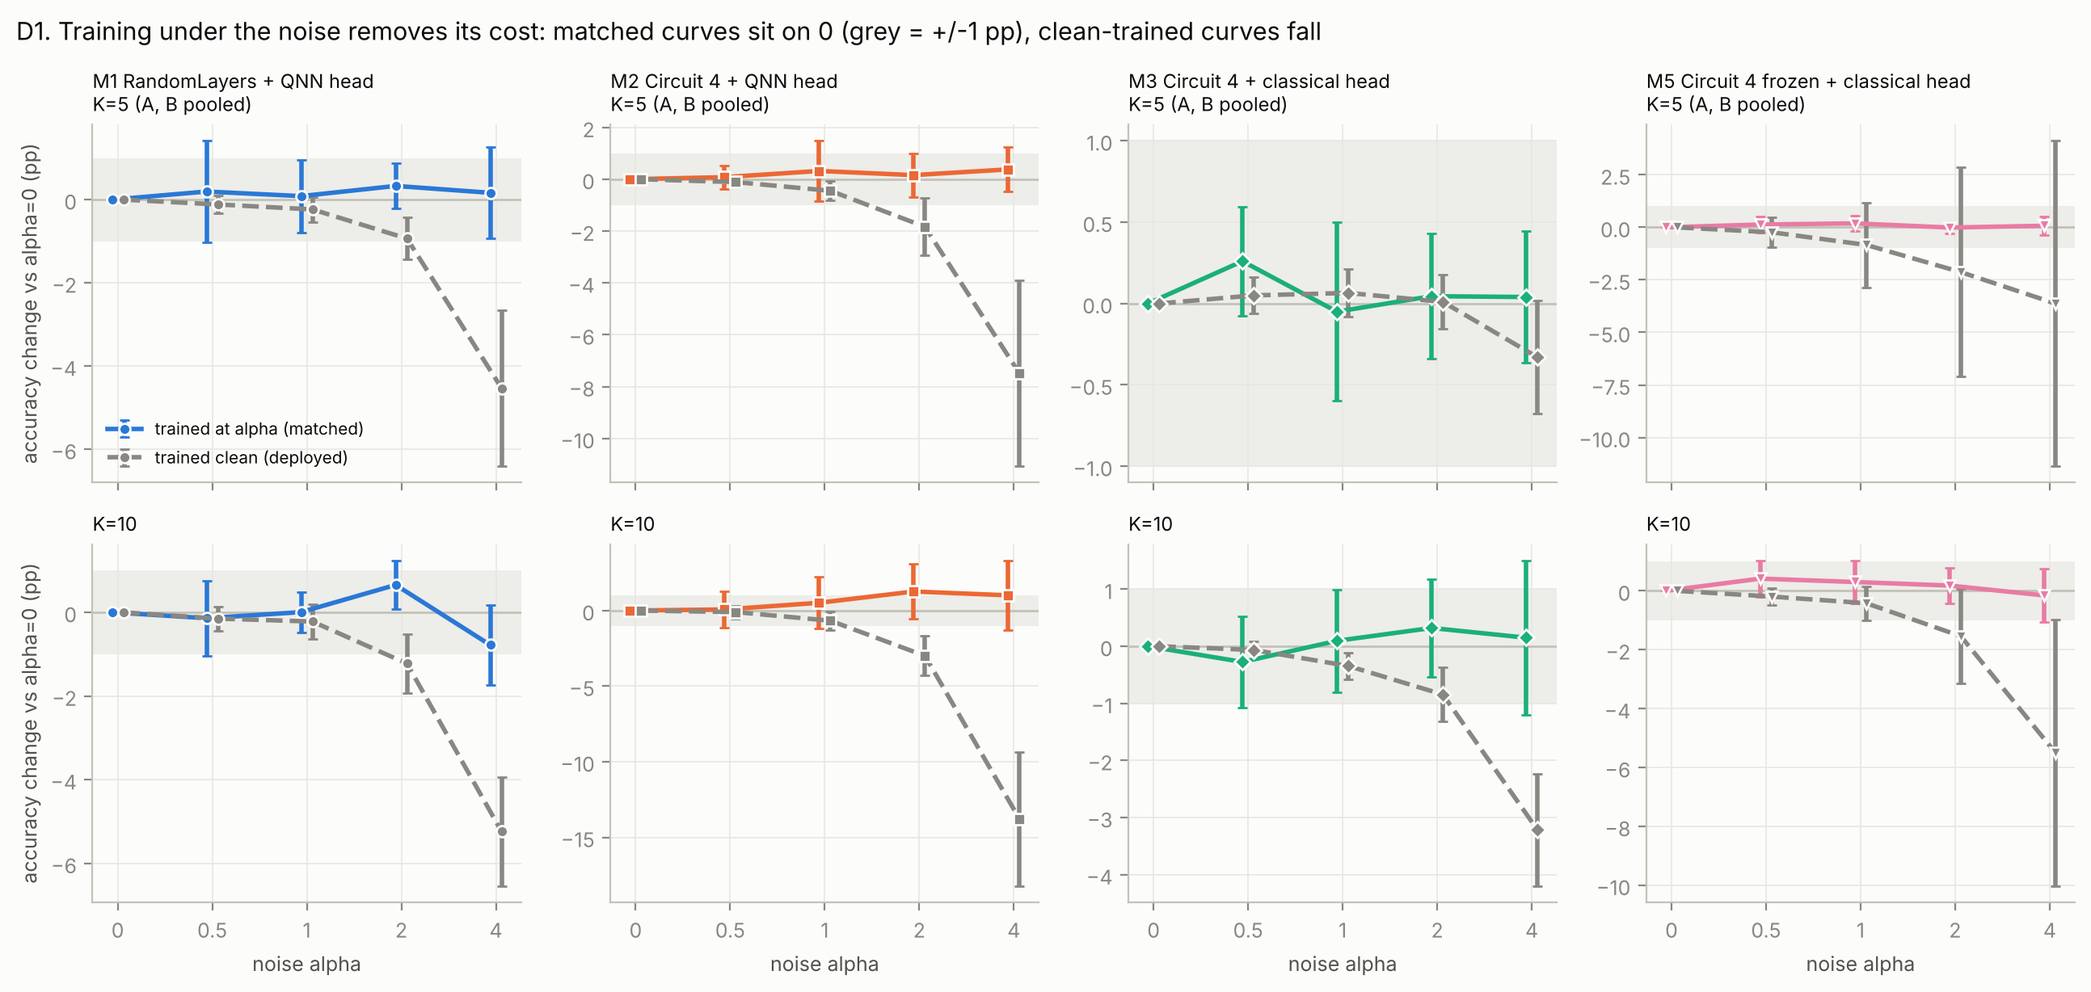
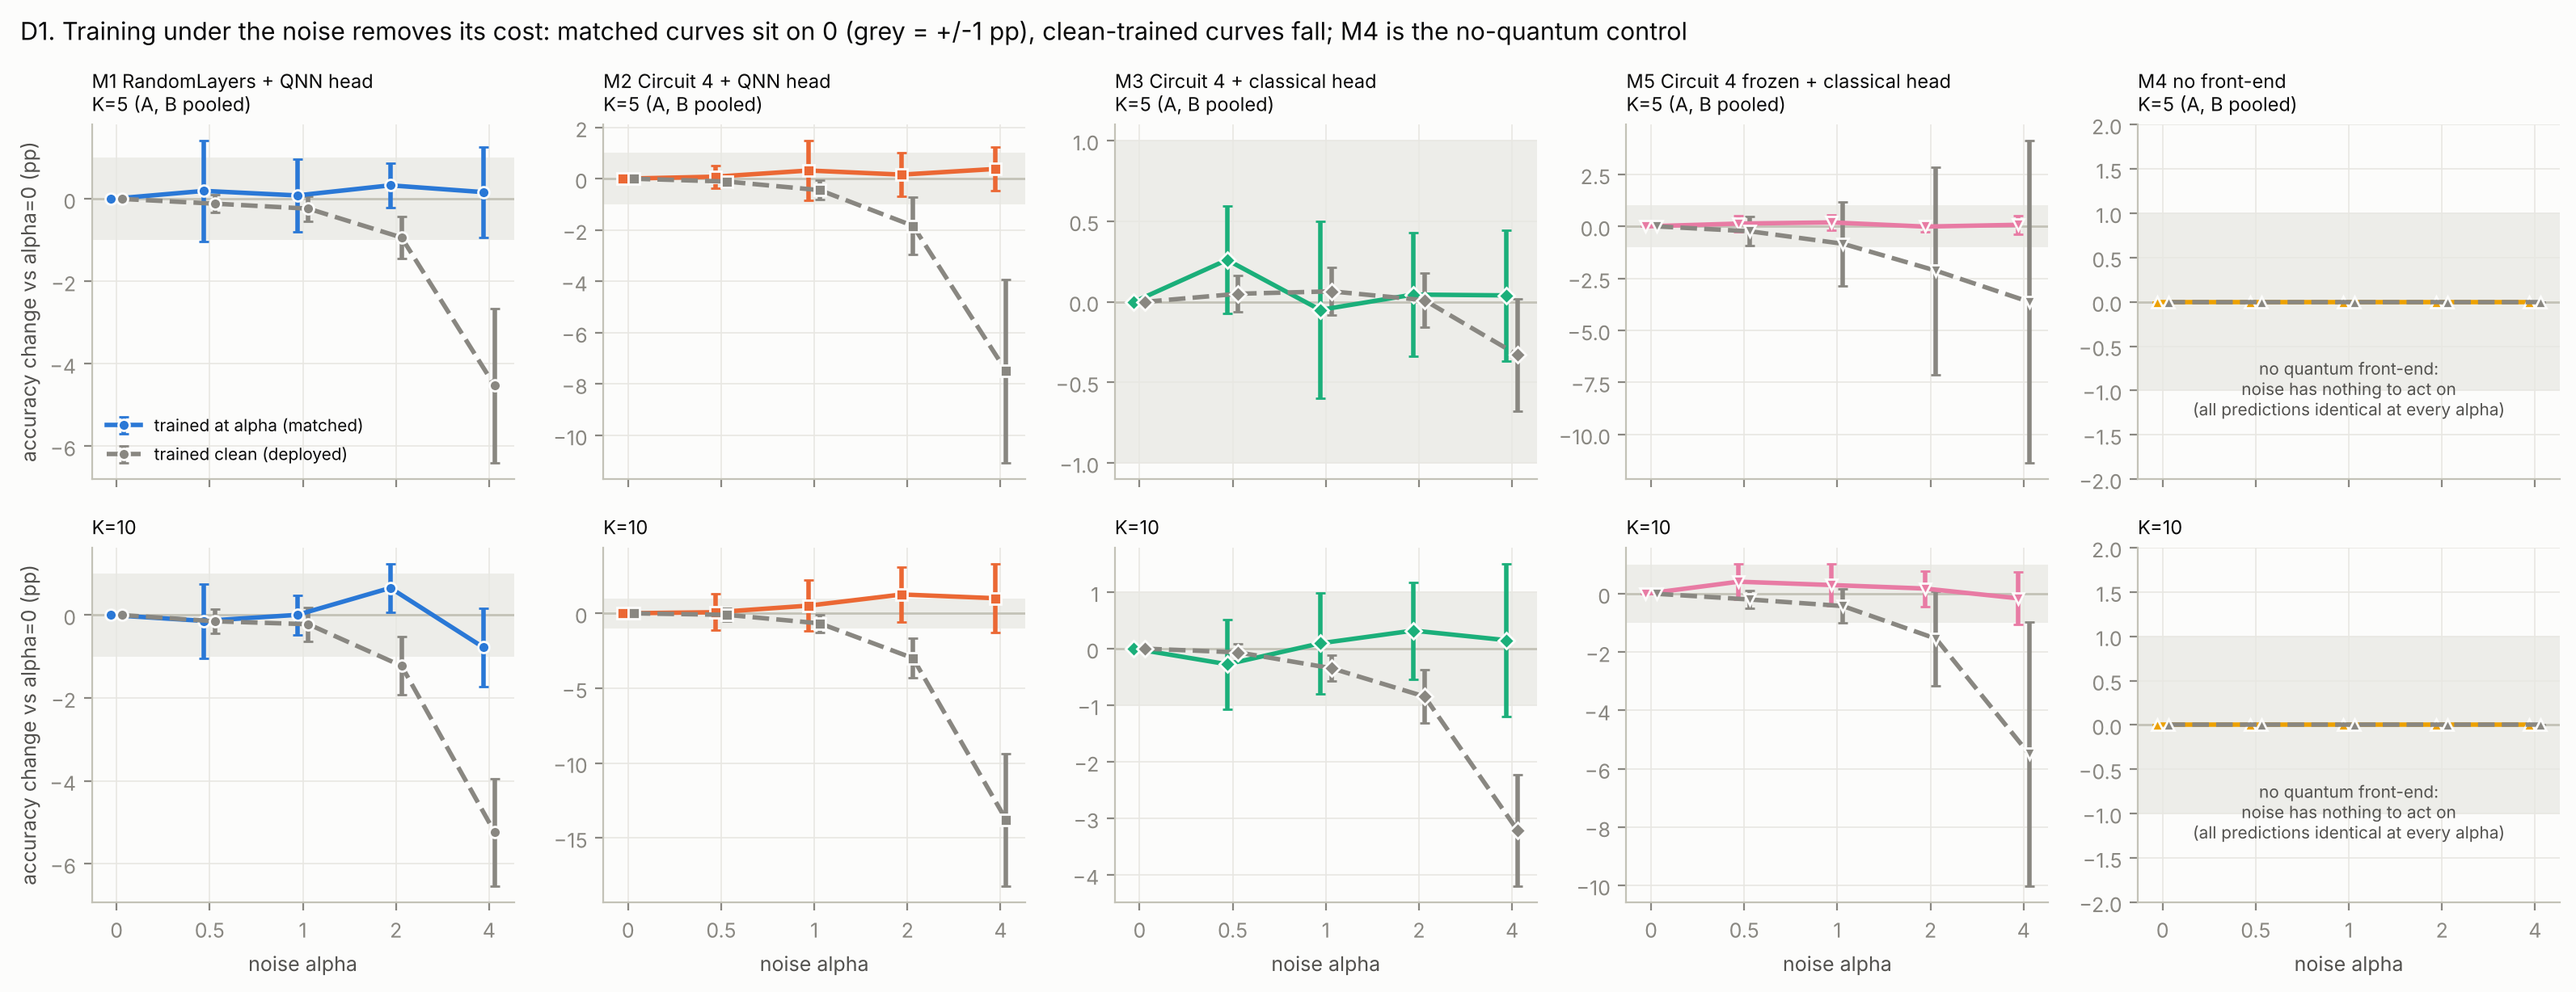
v15 D1: add M4 as the no-quantum control column
M4 has no quantum front-end, so noise has nothing to act on; all 30 M4
runs give identical per-image predictions at every alpha. Shown as a flat
control in D1 and noted in the figure map.

diff --git a/code/v15_noise/scripts/deep_v15.py b/code/v15_noise/scripts/deep_v15.py
@@ -71,10 +71,10 @@ def save(fig, name):
 
 
 # ---- D1: matched vs deployed cost, per model -----------------------------------------
-fig, axes = plt.subplots(2, 4, figsize=(13, 6.2), sharex=True)
+fig, axes = plt.subplots(2, 5, figsize=(16, 6.2), sharex=True)
 x = np.arange(len(TRAIN_A))
 for i, K in enumerate((5, 10)):
-    for j, M in enumerate(QM):
+    for j, M in enumerate(QM + ["M4"]):
         ax = axes[i][j]
         m = [ci([matched(K, a, M, S) - matched(K, 0, M, S) for S in SEEDS]) for a in TRAIN_A]
         d = [ci([dep(K, M, S, a) - dep(K, M, S, 0) for S in SEEDS]) for a in TRAIN_A]
@@ -88,9 +88,13 @@ for i, K in enumerate((5, 10)):
         ax.set_title(("%s\n%s" % (NAME[M], kt(K))) if i == 0 else kt(K), loc="left", fontsize=8.5)
         if j == 0: ax.set_ylabel("accuracy change vs alpha=0 (pp)")
         if i == 1: ax.set_xlabel("noise alpha")
+        if M == "M4":
+            ax.set_ylim(-2, 2)
+            ax.text(0.5, 0.18, "no quantum front-end:\nnoise has nothing to act on\n(all predictions identical at every alpha)",
+                    transform=ax.transAxes, ha="center", fontsize=7.5, color=INK2)
 axes[0][0].legend(fontsize=7.5, loc="lower left")
 fig.suptitle("D1. Training under the noise removes its cost: matched curves sit on 0 (grey = +/-1 pp), "
-             "clean-trained curves fall", x=0.01, ha="left", fontsize=11)
+             "clean-trained curves fall; M4 is the no-quantum control", x=0.01, ha="left", fontsize=11)
 fig.tight_layout(); save(fig, "D1_train_under_noise.png")
 
 # ---- D2: head amplification -----------------------------------------------------------

diff --git a/results/results_v15/analysis/deep_v15.py b/results/results_v15/analysis/deep_v15.py
@@ -71,10 +71,10 @@ def save(fig, name):
 
 
 # ---- D1: matched vs deployed cost, per model -----------------------------------------
-fig, axes = plt.subplots(2, 4, figsize=(13, 6.2), sharex=True)
+fig, axes = plt.subplots(2, 5, figsize=(16, 6.2), sharex=True)
 x = np.arange(len(TRAIN_A))
 for i, K in enumerate((5, 10)):
-    for j, M in enumerate(QM):
+    for j, M in enumerate(QM + ["M4"]):
         ax = axes[i][j]
         m = [ci([matched(K, a, M, S) - matched(K, 0, M, S) for S in SEEDS]) for a in TRAIN_A]
         d = [ci([dep(K, M, S, a) - dep(K, M, S, 0) for S in SEEDS]) for a in TRAIN_A]
@@ -88,9 +88,13 @@ for i, K in enumerate((5, 10)):
         ax.set_title(("%s\n%s" % (NAME[M], kt(K))) if i == 0 else kt(K), loc="left", fontsize=8.5)
         if j == 0: ax.set_ylabel("accuracy change vs alpha=0 (pp)")
         if i == 1: ax.set_xlabel("noise alpha")
+        if M == "M4":
+            ax.set_ylim(-2, 2)
+            ax.text(0.5, 0.18, "no quantum front-end:\nnoise has nothing to act on\n(all predictions identical at every alpha)",
+                    transform=ax.transAxes, ha="center", fontsize=7.5, color=INK2)
 axes[0][0].legend(fontsize=7.5, loc="lower left")
 fig.suptitle("D1. Training under the noise removes its cost: matched curves sit on 0 (grey = +/-1 pp), "
-             "clean-trained curves fall", x=0.01, ha="left", fontsize=11)
+             "clean-trained curves fall; M4 is the no-quantum control", x=0.01, ha="left", fontsize=11)
 fig.tight_layout(); save(fig, "D1_train_under_noise.png")
 
 # ---- D2: head amplification -----------------------------------------------------------

diff --git a/docs/V15_RESULTS.md b/docs/V15_RESULTS.md
@@ -201,7 +201,7 @@ Outcome per pre-registration §7: **"NC3 ≈ 0 (TOST) at α = 1, F not detected 
 
 | Figure | Shows | Finding |
 |---|---|---|
-| D1 `D1_train_under_noise.png` | Per model: accuracy change vs α, trained at α vs trained clean | Matched curves stay inside ±1 pp; clean-trained curves fall from α ≈ 2 (L1). |
+| D1 `D1_train_under_noise.png` | Per model: accuracy change vs α, trained at α vs trained clean; M4 as the no-quantum control | Matched curves stay inside ±1 pp; clean-trained curves fall from α ≈ 2 (L1). M4 is exactly 0 in both arms: all 30 M4 runs give identical predictions at every α, confirming the noise touches only the quantum front-end. |
 | D2 `D2_head_amplification.png` | Deployed loss vs α for M2 (QNN head) and M3 (classical head), same front-end | QNN head loses 7–11 pp more at α = 4 (L3). |
 | D3 `D3_noise_tolerance.png` | Per seed, the α where a clean-trained model first loses 2 pp | Classical head ≈ 8–9× vs QNN head ≈ 2–3× at K = 5; only seed 46's frozen front-end fails below device level (L6). |
 | D4 `D4_seed46.png` | Every seed's deployed curve, M5 and M3 | Seed 46's frozen front-end falls from α = 0.5; trained (M3) seed 46 is normal (L4). |
